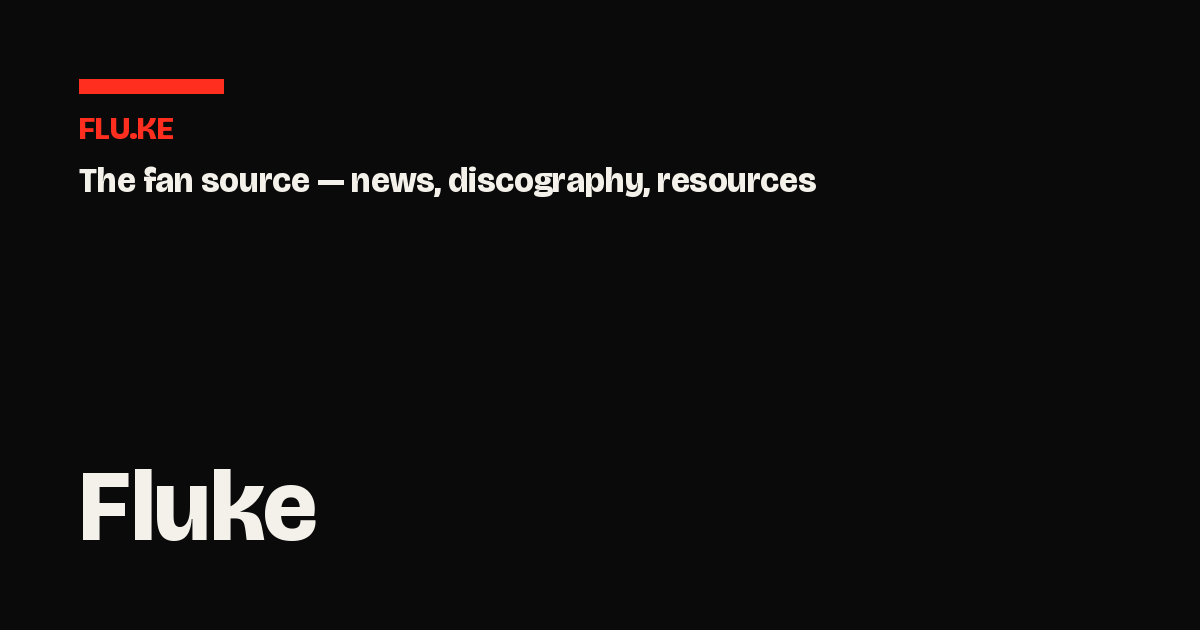
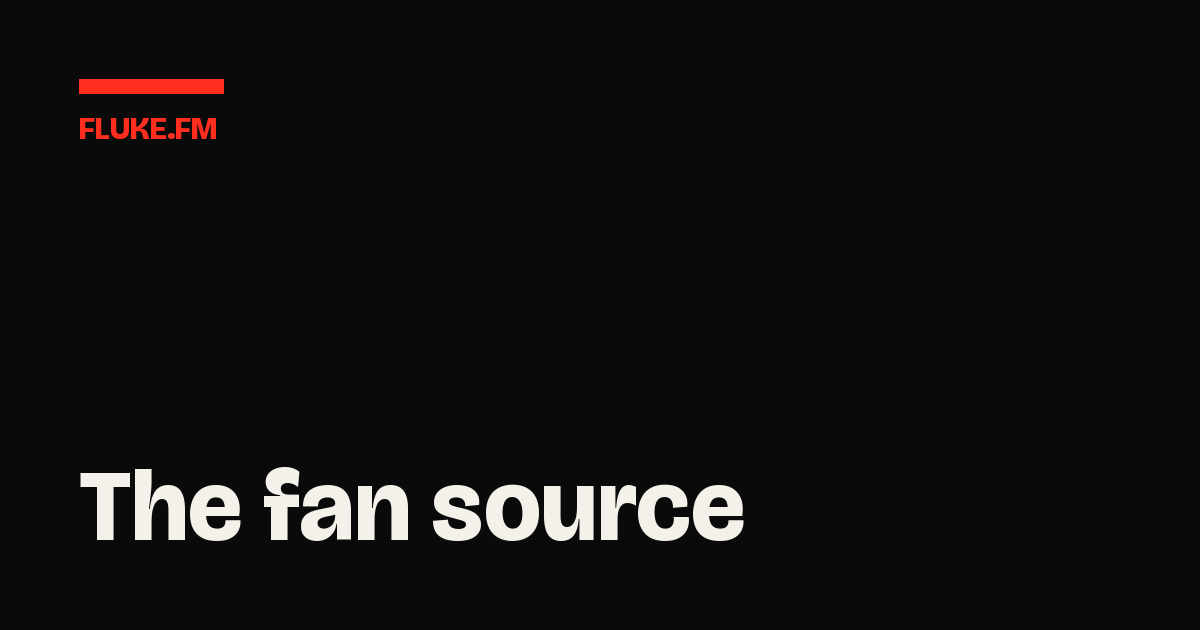
chore: rename the domain flu.ke to fluke.fm
The site is now hosted at fluke.fm. Replace flu.ke with fluke.fm everywhere:
production ALLOWED_HOSTS / CSRF_TRUSTED_ORIGINS / SITE_BASE_URL defaults, the
Traefik Host() rule, the compose and .env examples, docs and tests; the visible
branding (the hero logo is now Fluke.fm, and the OG-image renderer draws
FLUKE.FM); and assorted comments/User-Agent. Regenerated the default OG card and
the 112 post OG images. The fluke.eve.gd test domain is left in place. Also
refreshes the now-stale pyproject description and pins the sitemap/feed tests to
a fixed canonical host so they don't depend on a local .env.

Changed region(s): [[0.0617, 0.7238, 0.6167, 0.8746], [0.0617, 0.2714, 0.6783, 0.3317], [0.0925, 0.181, 0.185, 0.2413]]

diff --git a/assets/js/scroll.js b/assets/js/scroll.js
@@ -1,4 +1,4 @@
-/* Cinematic scroll enhancements for flu.ke.
+/* Cinematic scroll enhancements for fluke.fm.
    Progressive enhancement: content is fully visible without JS. Motion is applied
    only when the user has not asked to reduce it. */
 (function () {

diff --git a/assets/js/theme.js b/assets/js/theme.js
@@ -1,4 +1,4 @@
-/* Light/dark theme toggle for flu.ke.
+/* Light/dark theme toggle for fluke.fm.
    Light is the default; dark is opt-in via data-theme="dark" on <html>.
    The no-flash inline script in <head> applies the stored choice before paint;
    this file wires up the toggle button and keeps its ARIA state in sync. */

diff --git a/templates/landing.html b/templates/landing.html
@@ -4,7 +4,7 @@
 {% block content %}
 <section class="hero wrap" aria-labelledby="hero-title">
   <p class="kicker">Est. on the dancefloor — official &amp; fan archive</p>
-  <h1 class="hero__mark" id="hero-title" data-parallax="0.06">Flu<em>.</em>ke</h1>
+  <h1 class="hero__mark" id="hero-title" data-parallax="0.06">Fluke<em>.</em>fm</h1>
   <p class="hero__sub">Everything {{ site_name }} — and its aliases and other projects {{ hero_aliases }}. <a href="/news/">News</a>, <a href="/discography/">the complete discography</a>, <a href="/resources/#official">official material</a> and <a href="/resources/#fan">the things fans made</a>.</p>
   <span class="hero__scrim" aria-hidden="true"></span>
 </section>

diff --git a/tests/test_frontend_sitemap_feed.py b/tests/test_frontend_sitemap_feed.py
@@ -11,6 +11,12 @@ from apps.resources.models import KIND_OFFICIAL, Resource
 pytestmark = pytest.mark.django_db
 
 
[email redacted](autouse=True)
+def _canonical_base_url(settings):
+    """Pin the canonical host so the domain assertions don't depend on a local .env."""
+    settings.SITE_BASE_URL = "https://fluke.fm"
+
+
 @pytest.fixture
 def seeded():
     fluke = Artist.objects.create(name="Fluke")
@@ -39,8 +45,8 @@ def test_sitemap_returns_xml_with_published_url(client, seeded):
     assert "xml" in response["Content-Type"]
     body = response.content.decode()
     # URLs are absolute and pinned to the canonical SITE_BASE_URL host.
-    assert f"https://flu.ke{seeded['post'].get_absolute_url()}" in body
-    assert f"https://flu.ke{seeded['release'].get_absolute_url()}" in body
+    assert f"https://fluke.fm{seeded['post'].get_absolute_url()}" in body
+    assert f"https://fluke.fm{seeded['release'].get_absolute_url()}" in body
     assert "testserver" not in body
 
 
@@ -55,7 +61,7 @@ def test_sitemap_excludes_draft_content(client, seeded):
 def test_sitemap_includes_section_indexes(client, seeded):
     response = client.get("/sitemap.xml")
     body = response.content.decode()
-    assert "https://flu.ke/" in body
+    assert "https://fluke.fm/" in body
     assert "/news/" in body
     assert "/discography/" in body
     assert "/resources/" in body
@@ -77,4 +83,4 @@ def test_robots_txt_is_plain_text_with_sitemap_line(client, seeded):
     assert response["Content-Type"].startswith("text/plain")
     body = response.content.decode()
     assert "User-agent: *" in body
-    assert "Sitemap: https://flu.ke/sitemap.xml" in body
+    assert "Sitemap: https://fluke.fm/sitemap.xml" in body

diff --git a/tests/test_production_settings.py b/tests/test_production_settings.py
@@ -56,8 +56,8 @@ def test_production_debug_is_false(monkeypatch):
 
 def test_production_allowed_hosts_cover_test_and_real_domains(monkeypatch):
     prod = _load_production(monkeypatch)
-    assert "flu.ke" in prod.ALLOWED_HOSTS
-    assert "www.flu.ke" in prod.ALLOWED_HOSTS
+    assert "fluke.fm" in prod.ALLOWED_HOSTS
+    assert "www.fluke.fm" in prod.ALLOWED_HOSTS
     assert "fluke.eve.gd" in prod.ALLOWED_HOSTS
 
 
@@ -65,13 +65,13 @@ def test_production_allowed_hosts_merge_env_override(monkeypatch):
     monkeypatch.setenv("DJANGO_ALLOWED_HOSTS", "extra.example.com")
     prod = _load_production(monkeypatch)
     assert "extra.example.com" in prod.ALLOWED_HOSTS
-    assert "flu.ke" in prod.ALLOWED_HOSTS
+    assert "fluke.fm" in prod.ALLOWED_HOSTS
 
 
 def test_production_csrf_trusted_origins(monkeypatch):
     prod = _load_production(monkeypatch)
-    assert "https://flu.ke" in prod.CSRF_TRUSTED_ORIGINS
-    assert "https://www.flu.ke" in prod.CSRF_TRUSTED_ORIGINS
+    assert "https://fluke.fm" in prod.CSRF_TRUSTED_ORIGINS
+    assert "https://www.fluke.fm" in prod.CSRF_TRUSTED_ORIGINS
     assert "https://fluke.eve.gd" in prod.CSRF_TRUSTED_ORIGINS
 
 
@@ -79,7 +79,7 @@ def test_production_csrf_trusted_origins_merge_env_override(monkeypatch):
     monkeypatch.setenv("CSRF_TRUSTED_ORIGINS", "https://extra.example.com")
     prod = _load_production(monkeypatch)
     assert "https://extra.example.com" in prod.CSRF_TRUSTED_ORIGINS
-    assert "https://flu.ke" in prod.CSRF_TRUSTED_ORIGINS
+    assert "https://fluke.fm" in prod.CSRF_TRUSTED_ORIGINS
 
 
 def test_production_proxy_ssl_header(monkeypatch):

diff --git a/config/settings_production.py b/config/settings_production.py
@@ -36,10 +36,10 @@ if not SECRET_KEY or SECRET_KEY == "insecure-dev-key-override-in-env":
 # --- Hosts / CSRF ----------------------------------------------------------
 # Allow both the canonical domain and the test/staging domain, merged with any
 # hosts/origins supplied via the environment (de-duplicated, order preserved).
-_DEFAULT_ALLOWED_HOSTS = ["flu.ke", "www.flu.ke", "fluke.eve.gd"]
+_DEFAULT_ALLOWED_HOSTS = ["fluke.fm", "www.fluke.fm", "fluke.eve.gd"]
 _DEFAULT_CSRF_TRUSTED_ORIGINS = [
-    "https://flu.ke",
-    "https://www.flu.ke",
+    "https://fluke.fm",
+    "https://www.fluke.fm",
     "https://fluke.eve.gd",
 ]
 

diff --git a/tests/test_core_context.py b/tests/test_core_context.py
@@ -5,8 +5,8 @@ from django.test import override_settings
 from apps.core.context_processors import site
 
 
-@override_settings(SITE_NAME="Fluke", SITE_BASE_URL="https://flu.ke")
+@override_settings(SITE_NAME="Fluke", SITE_BASE_URL="https://fluke.fm")
 def test_site_context_exposes_name_and_base_url():
     ctx = site(request=None)
     assert ctx["site_name"] == "Fluke"
-    assert ctx["site_base_url"] == "https://flu.ke"
+    assert ctx["site_base_url"] == "https://fluke.fm"

diff --git a/apps/blog/og.py b/apps/blog/og.py
@@ -59,7 +59,7 @@ def render_og_image(
 
     # Red accent bar + brand mark, top-left.
     draw.rectangle([margin, margin, margin + round(width * 0.12), margin + 14], fill=accent)
-    draw.text((margin, margin + 30), "FLU.KE", font=_font(round(height * 0.05), 600), fill=accent)
+    draw.text((margin, margin + 30), "FLUKE.FM", font=_font(round(height * 0.05), 600), fill=accent)
     if subtitle:
         draw.text(
             (margin, margin + 80),

diff --git a/apps/discography/management/commands/import_lyrics.py b/apps/discography/management/commands/import_lyrics.py
@@ -27,7 +27,7 @@ CDX_URL = (
     "&output=json&collapse=urlkey&fl=original,timestamp,statuscode"
 )
 RAW_SNAPSHOT = "https://web.archive.org/web/{timestamp}id_/{url}"
-USER_AGENT = "flu.ke-lyric-recovery/1.0 (Fluke fan archive; content recovery)"
+USER_AGENT = "fluke.fm-lyric-recovery/1.0 (Fluke fan archive; content recovery)"
 
 
 def title_from_lyric_url(url: str) -> str:

diff --git a/config/settings.py b/config/settings.py
@@ -18,7 +18,7 @@ env = environ.Env(
     DJANGO_ALLOWED_HOSTS=(list, ["127.0.0.1", "localhost"]),
     DJANGO_SECURE=(bool, False),
     CSRF_TRUSTED_ORIGINS=(list, []),
-    SITE_BASE_URL=(str, "https://flu.ke"),
+    SITE_BASE_URL=(str, "https://fluke.fm"),
     SITE_NAME=(str, "Fluke"),
     MEDIA_ROOT=(str, "media"),
     MEDIA_URL=(str, "/media/"),

diff --git a/tests/test_seo_jsonld.py b/tests/test_seo_jsonld.py
@@ -7,7 +7,7 @@ from apps.discography.models import Artist, Edition, Release, ReleaseType, Track
 
 pytestmark = pytest.mark.django_db
 
-BASE = "https://flu.ke"
+BASE = "https://fluke.fm"
 
 
 def test_blog_posting_jsonld():

diff --git a/docs/deploy-docker.md b/docs/deploy-docker.md
@@ -95,13 +95,13 @@ they are missing.
 | Variable | Required | Notes |
 |---|---|---|
 | `DJANGO_SECRET_KEY` | yes | `python -c "import secrets; print(secrets.token_urlsafe(50))"`. Use a fresh key, not the dev one. |
-| `SITE_BASE_URL` | yes | `https://fluke.eve.gd` for the test deploy; `https://flu.ke` for production. |
+| `SITE_BASE_URL` | yes | `https://fluke.eve.gd` for the test deploy; `https://fluke.fm` for production. |
 | `DATABASE_URL` | no (default) | Defaults to `sqlite:////data/db.sqlite3` — `/data` is the bind-mounted `$DATA_DIR/db`. |
 | `DATA_DIR` | no (default) | Host directory for the bind-mounted DB + media. Must live **outside the repo**. Defaults to `../fluke-data` (a sibling of the repo); recommend an absolute path like `/srv/fluke-data`. Create and `chown` it to the container UID/GID before the first `up` (see Volumes). |
 | `TRAEFIK_HTTP_PORT` | no (default) | Host port published to Traefik's `:80` entrypoint. Defaults to `8001`. Point Pangolin here. |
 | `SITE_NAME` | no | Defaults to `Fluke`. |
-| `DJANGO_ALLOWED_HOSTS` | no | Defaults to `fluke.eve.gd,flu.ke`. Django host check. |
-| `CSRF_TRUSTED_ORIGINS` | no | Defaults to `https://fluke.eve.gd,https://flu.ke`. |
+| `DJANGO_ALLOWED_HOSTS` | no | Defaults to `fluke.eve.gd,fluke.fm`. Django host check. |
+| `CSRF_TRUSTED_ORIGINS` | no | Defaults to `https://fluke.eve.gd,https://fluke.fm`. |
 | `MUSICBRAINZ_CONTACT` | no | Descriptive contact for the MusicBrainz User-Agent. |
 | `UID` / `GID` | no | Build args; match the host owner of the `$DATA_DIR` files (default 1000). |
 
@@ -118,13 +118,13 @@ entrypoint on the host at `TRAEFIK_HTTP_PORT` (default **8001**); point Pangolin
 at the host on that port. The Traefik labels route both hosts:
 
 ```
-traefik.http.routers.fluke.rule=Host(`fluke.eve.gd`) || Host(`flu.ke`)
+traefik.http.routers.fluke.rule=Host(`fluke.eve.gd`) || Host(`fluke.fm`)
 traefik.http.routers.fluke.entrypoints=web
 traefik.http.services.fluke.loadbalancer.server.port=8000
 ```
 
 Test deploy first against **fluke.eve.gd**, then switch `SITE_BASE_URL` (and, if
-you narrow them, `DJANGO_ALLOWED_HOSTS` / `CSRF_TRUSTED_ORIGINS`) to **flu.ke**
+you narrow them, `DJANGO_ALLOWED_HOSTS` / `CSRF_TRUSTED_ORIGINS`) to **fluke.fm**
 for the production cutover. The router already accepts both hostnames.
 
 ## Volumes